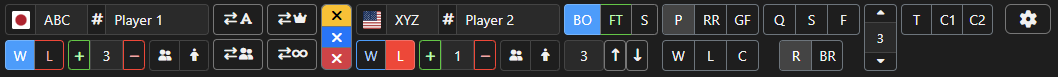
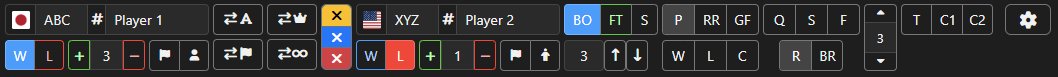
Small improvements to the controller UI

diff --git a/static/controller.html b/static/controller.html
@@ -142,7 +142,7 @@
                         </div>
 						<div class="btn-group btn-group-sm extraPlayerBtns" style="margin-left: 4px !important; position: relative;">
 						<span data-bs-toggle="tooltip" data-bs-placement="bottom" title="P1 Team Info">
-                            <button type="button" id="team1toggle" class="btn btn-sm btn-outline-secondary team-popover" data-bs-placement="right" data-popover-content="team1Popover"><i class="fa-solid fa-user-group fa-xs"></i></button>
+                            <button type="button" id="team1toggle" class="btn btn-sm btn-outline-secondary team-popover" data-bs-placement="right" data-popover-content="team1Popover"><i class="fa-solid fa-flag fa-xs"></i></button>
                         </span>
 						<span data-bs-toggle="tooltip" data-bs-placement="bottom" title="P1 Character">
 							<button type="button"
@@ -150,7 +150,7 @@
 									class="btn btn-sm btn-outline-secondary char-select-btn"
 									data-player="1"
 									onclick="toggleCharMenu(1)">
-								<i class="fa-solid fa-person fa-xs"></i>
+								<i class="fa-solid fa-user fa-xs"></i>
 							</button>
 						</span>
 						<div id="p1CharDropdown" class="char-dropdown hidden" data-player="1"></div>
@@ -167,7 +167,7 @@
                             <i class="fa-solid fa-arrow-right-arrow-left fa-sm"></i><i class="fa-solid fa-crown fa-sm"></i>
                         </button>
 						<button type="button" class="btn btn-outline-secondary btn-sm" data-bs-toggle="tooltip" data-bs-placement="bottom" title="Swap Teams" style="width: 50px; height: 31px;" onclick="swapTeams()">
-                            <i class="fa-solid fa-arrow-right-arrow-left fa-sm"></i><i class="fa-solid fa-user-group fa-sm"></i>
+                            <i class="fa-solid fa-arrow-right-arrow-left fa-sm"></i><i class="fa-solid fa-flag fa-sm"></i>
                         </button>
                         <button type="button" class="btn btn-outline-secondary btn-sm" data-bs-toggle="tooltip" data-bs-placement="top" title="Swap All" style="width: 50px; height: 31px;" onclick="swapAll()">
                             <i class="fa-solid fa-arrow-right-arrow-left fa-sm"></i><i class="fa-solid fa-infinity fa-sm"></i>
@@ -208,7 +208,7 @@
                         </div>
 						<div class="btn-group btn-group-sm extraPlayerBtns" style="margin-left: 4px !important; position: relative;">
 						<span data-bs-toggle="tooltip" data-bs-placement="bottom" title="P2 Team Info">
-                            <button type="button" id="team2toggle" class="btn btn-sm btn-outline-secondary team-popover" data-bs-placement="right" data-popover-content="team2Popover"><i class="fa-solid fa-user-group fa-xs"></i></button>
+                            <button type="button" id="team2toggle" class="btn btn-sm btn-outline-secondary team-popover" data-bs-placement="right" data-popover-content="team2Popover"><i class="fa-solid fa-flag fa-xs"></i></button>
                         </span>
 						<span data-bs-toggle="tooltip" data-bs-placement="bottom" title="P2 Character">
 							<button type="button"
@@ -216,7 +216,7 @@
 									class="btn btn-sm btn-outline-secondary char-select-btn"
 									data-player="2"
 									onclick="toggleCharMenu(2)">
-								<i class="fa-solid fa-person fa-xs"></i>
+								<i class="fa-solid fa-user fa-xs"></i>
 							</button>
 						</span>
 						<div id="p2CharDropdown" class="char-dropdown hidden" data-player="2"></div>
@@ -292,7 +292,7 @@
                                 </button>
                             </div>
                             <span data-bs-toggle="tooltip" data-bs-placement="bottom" title="Settings" style="padding: 0px; margin-left: 12px;">
-                                <button class="btn btn-outline-secondary" style="padding: 6px 12px;" type="button" data-bs-toggle="offcanvas" data-bs-target="#offcanvas" aria-controls="offcanvas"><i class="fa-solid fa-gear"></i></button>
+                                <button class="btn btn-outline-secondary" style="padding: 6px 12px; height: 31px;" type="button" data-bs-toggle="offcanvas" data-bs-target="#offcanvas" aria-controls="offcanvas"><i class="fa-solid fa-gear"></i></button>
                             </span>
                         </div>
                         <div id="topTextWrapper" class="form-inline sb-2 extraField" style="display: none;">

diff --git a/static/controller.css b/static/controller.css
@@ -146,12 +146,12 @@ body {
    /* Dark background */
    color: #f1f1f1;
    /* Light text */
-   border: 1px solid #6c757d;
+   border: 1px solid #777;
    border-radius: .25rem;
 }
 
 .popover-arrow {
-   --bs-popover-bg: #6c757d !important;
+   --bs-popover-bg: #777 !important;
 }
 
 .popover,
@@ -282,7 +282,7 @@ input::placeholder,
 .btn-group-vertical .btn {
 	width: 31px;
     max-height: 23px;
-    border-color: #6c757d !important;
+    border-color: #777 !important;
 	padding: 0px;
 }
 
@@ -328,12 +328,12 @@ input::placeholder,
     height: 31px;
     width: 30.5px;
     padding: 0 2px;
-    border-color: #444;
+    border-color: #777;
 }
 
 .char-select-btn:hover {
     background-color: #444;
-    border-color: #444;
+    border-color: #777;
     color: #fff;
 }
 
@@ -414,7 +414,7 @@ input::placeholder {
 .mainstage-button-wrapper .btn-row,
 .extra-button-wrapper .btn-row {
    display: flex;
-   border: 1px solid #6c757d;
+   border: 1px solid #777;
    border-radius: 0.25rem;
    overflow: hidden;
    width: max-content;
@@ -423,19 +423,19 @@ input::placeholder {
 .mainstage-button-wrapper .btn-row .btn {
    width: 33px;
    border-radius: 0;
-   border: 0px solid #6c757d;
+   border: 0px solid #777;
 }
 
 .extra-button-wrapper .btn-row .btn {
    width: 32px;
    border-radius: 0;
-   border: 0px solid #6c757d;
+   border: 0px solid #777;
 }
 
 .mainstage-button-wrapper .btn-row .btn:nth-child(2),
 .extra-button-wrapper .btn-row .btn:nth-child(2) {
-   border-left: 1px solid #6c757d !important;
-   border-right: 1px solid #6c757d !important;
+   border-left: 1px solid #777 !important;
+   border-right: 1px solid #777 !important;
 }
 
 .mainstage-button-wrapper .btn-row .btn:last-child,
@@ -469,7 +469,7 @@ input::placeholder {
 
 .substage-button-wrapper .btn-row {
    display: flex;
-   border: 1px solid #6c757d;
+   border: 1px solid #777;
    border-radius: 0.25rem;
    overflow: hidden;
    width: max-content;
@@ -478,12 +478,12 @@ input::placeholder {
 .substage-button-wrapper .btn-row .btn {
    width: 33px;
    border-radius: 0;
-   border: 0px solid #6c757d;
+   border: 0px solid #777;
 }
 
 .substage-button-wrapper .btn-row .btn:nth-child(2) {
-   border-left: 1px solid #6c757d !important;
-   border-right: 1px solid #6c757d !important;
+   border-left: 1px solid #777 !important;
+   border-right: 1px solid #777 !important;
 }
 
 .substage-button-wrapper .btn-row .btn:last-child {
@@ -501,7 +501,7 @@ input::placeholder {
    flex-direction: column;
    align-items: stretch;
    width: 33px;
-   border: 1px solid #6c757d;
+   border: 1px solid #777;
    border-radius: 0.25rem;
    padding: 0;
 }
@@ -551,13 +551,13 @@ input::placeholder {
    height: 31px;
    width: 29.5px;
    padding: 0 2px;
-   border-color: #444;
+   border-color: #777;
    border-radius: .25rem;
 }
 
 .team-popover:hover {
    background-color: #444;
-   border-color: #444;
+   border-color: #777;
    color: #fff;
 }
 
